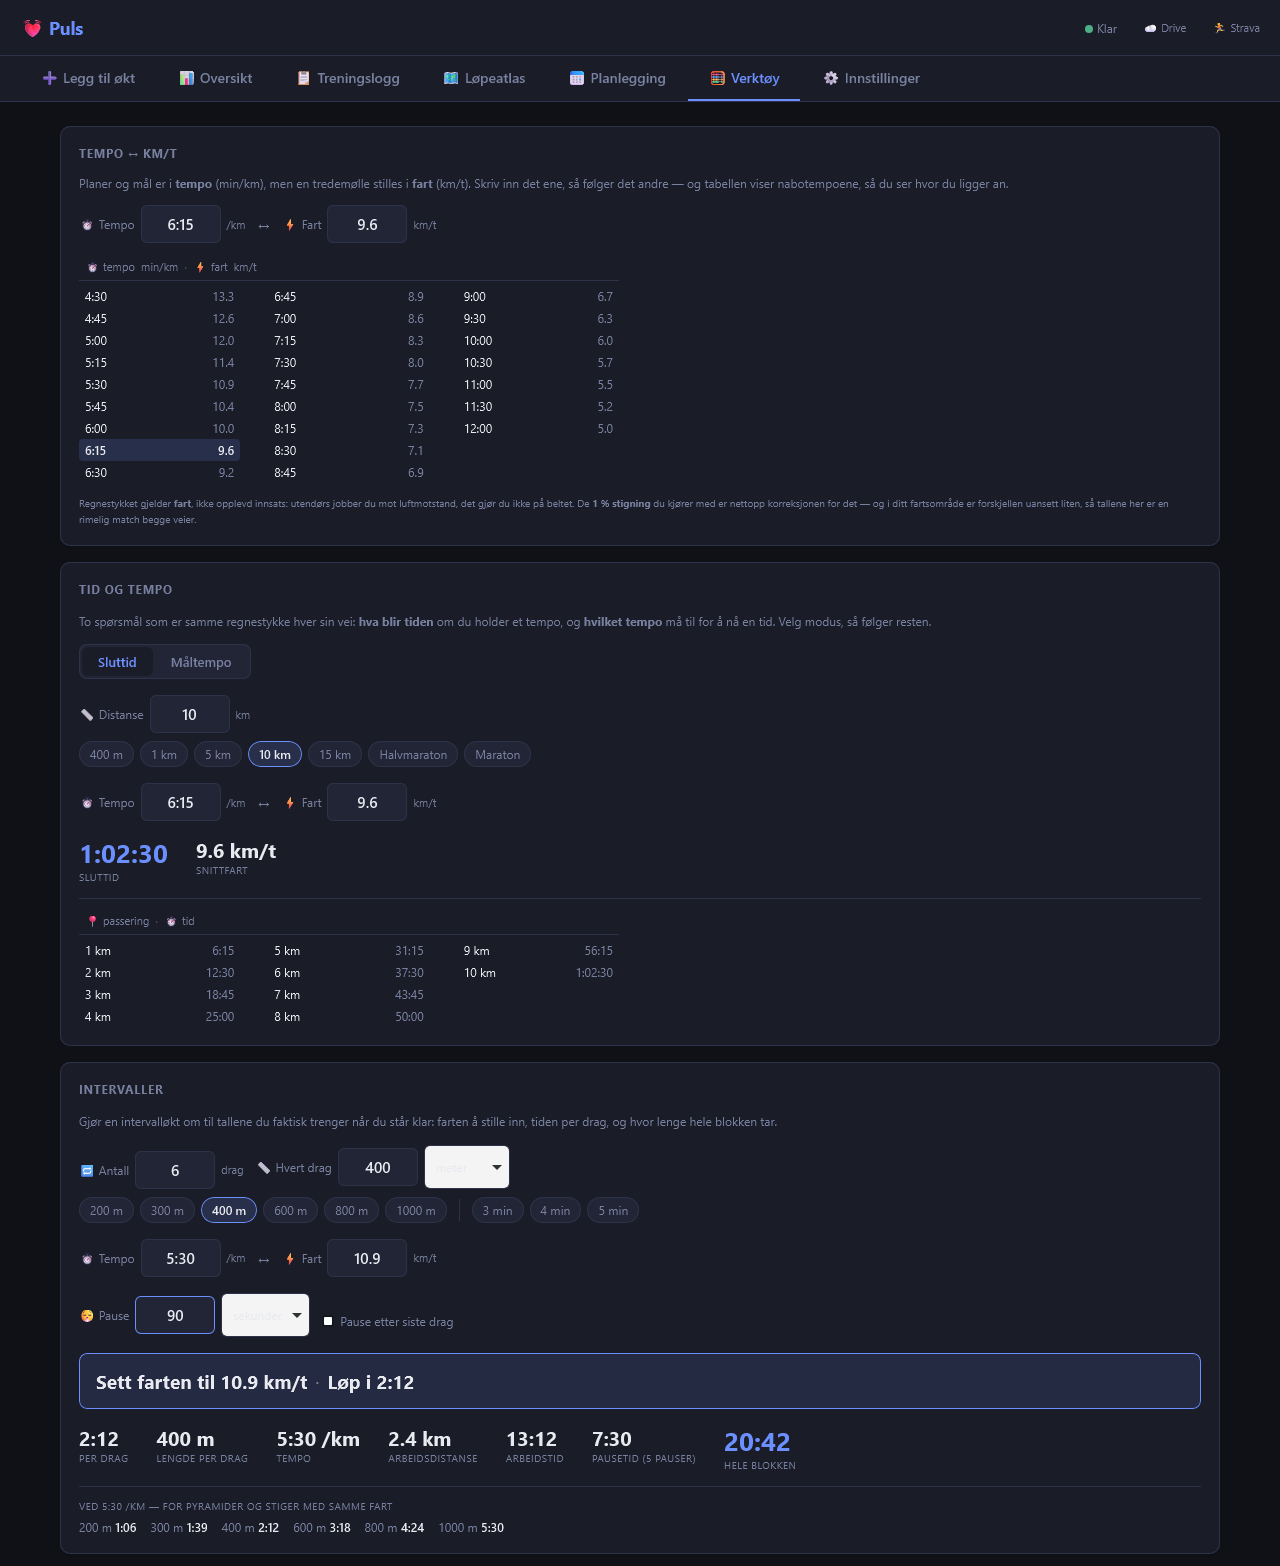
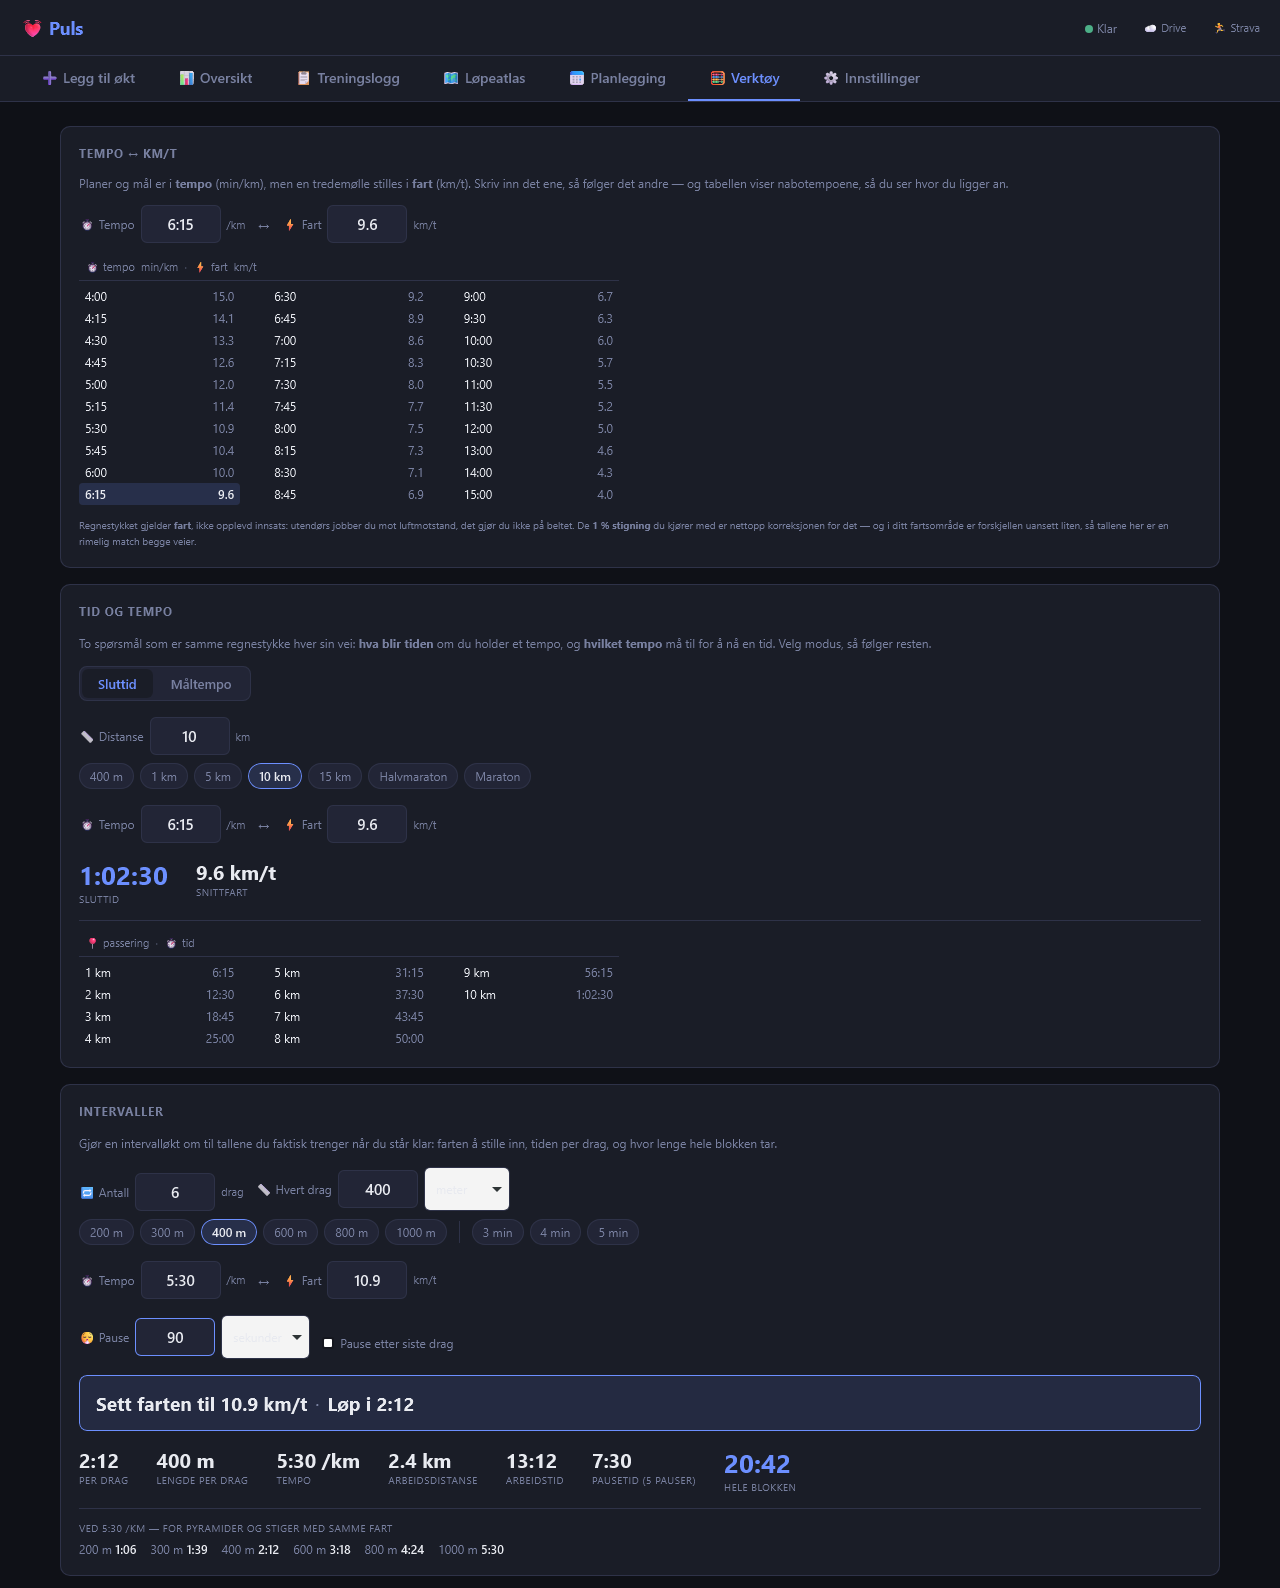
Docs: pace table range and input validation in README, screenshots regenerated

diff --git a/README.md b/README.md
@@ -128,11 +128,11 @@ Stateless calculators. **None of them read your data** — that is the defining 
 
 ![Verktøy — Tempo ↔ km/t, Tid og tempo and Intervaller](screenshots/tools.png)
 
-- **Tempo ↔ km/t** — your plan and targets are written in **pace** (min/km) but a treadmill is set in **speed** (km/t), so the conversion comes up before most indoor sessions — and again when reading someone else's run. Type either side and the other follows, rounded to one decimal because that's what a treadmill accepts. Below it a reference table from 4:30 to 12:00 per km (coarser below 9:00, where 15-second resolution would be false precision), with the row nearest your current value highlighted, so an answer arrives with its neighbours rather than alone. The arithmetic is **speed, not effort** — outdoors you work against air resistance and on a belt you don't; the 1% incline the log form defaults to is the standard correction for exactly that
+- **Tempo ↔ km/t** — your plan and targets are written in **pace** (min/km) but a treadmill is set in **speed** (km/t), so the conversion comes up before most indoor sessions — and again when reading someone else's run. Type either side and the other follows, rounded to one decimal because that's what a treadmill accepts. Below it a reference table from 4:00 to 15:00 per km — both ends round in km/t (15.0 and 4.0), reaching interval reps at the top and a treadmill recovery walk at the bottom — with the row nearest your current value highlighted, so an answer arrives with its neighbours rather than alone. The step coarsens twice (30 s below 9:00, 60 s below 12:00): partly because 15-second resolution on a walking pace is false precision, and partly because a fixed 0.1 km/t step buys more and more pace the slower you go, so finer rows down there would not survive a round trip through the speed column. The arithmetic is **speed, not effort** — outdoors you work against air resistance and on a belt you don't; the 1% incline the log form defaults to is the standard correction for exactly that
 - **Tid og tempo** — one card, two modes, because they are the same arithmetic in opposite directions. **Sluttid**: distance + pace → finish time and average speed ("10 km at 6:15 → 1:02:30, 9.6 km/t"). **Måltempo**: distance + target time → the pace it actually takes ("5 km in 29:30 → 5:54/km"), with round **Sub-30 / Sub-27:30** style chips bracketing whatever you typed — generated from the value in the box, never from your PRs, so they stay useful as you get faster and still work for a distance you have never raced. Both modes share a distance picker (free km entry plus presets from 400 m to marathon, matching the Distanse-PR table so the labels mean the same thing) and a **split table** — every kilometre up to 10, then every five, always ending on the real distance, so a marathon is 17 rows rather than 42. Switching mode keeps the distance you already picked
 - **Intervaller** — turns a prescription into the numbers you need standing at the belt. The loudest line is deliberately the one you read in the ten seconds before starting: **"Sett farten til 10.9 km/t · Løp i 2:12"**. Below it, per-interval and session totals — work distance, work time, recovery time and the whole block. Works from either direction: `6 × 400 m @ 5:30` or `5 × 3 min @ 10.5 km/t`. **Six reps means five recoveries**, and the count is printed rather than implied, since getting it wrong misstates the block by a whole recovery; a checkbox adds a trailing recovery when the session has one. Recovery entered as a *distance* leaves the block duration blank **with the reason attached** — how long 200 m takes depends on a recovery pace you haven't given, and a plausible invented number is worse than an honest gap. A **distance ladder** at the entered pace (200 m → 1 km) covers pyramids and ladders, which normally hold one pace and vary only the distance, so the belt setting never changes and only the rep times are missing
 
-Numbers accept a comma or a point on input; output always uses a point.
+Numbers accept a comma or a point on input; output always uses a point. Leniency stops there: anything that is not a usable number or time gets a **red border** and no answer, rather than being quietly reinterpreted. `10:84` is not 11:24, `10abc` is not 10, and an empty field is not an error — it is where you started.
 
 ### Settings (Innstillinger)
 - **Profil & Puls** — max HR, resting HR, 5 zone boundaries; auto-calculate zones from max HR, or import your real boundaries directly from Strava *(requires Strava connection)*; zone boundaries drive HR zone analysis in training block drill-downs, Easy run Zone 2 compliance insights, and the Zone 2 efficiency filter
